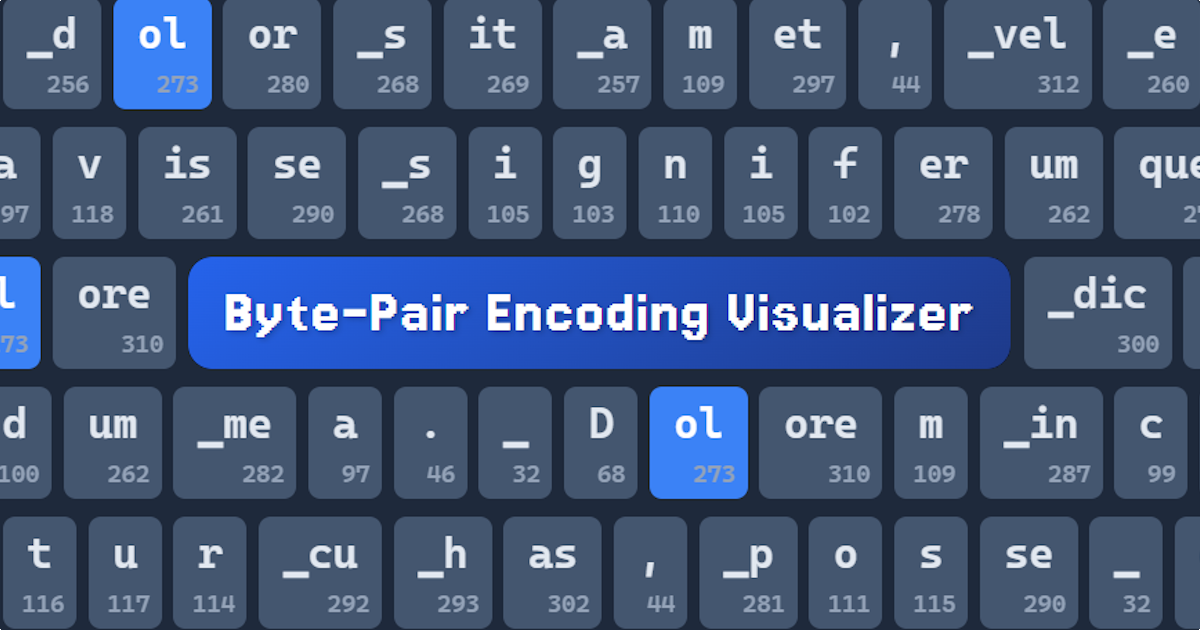
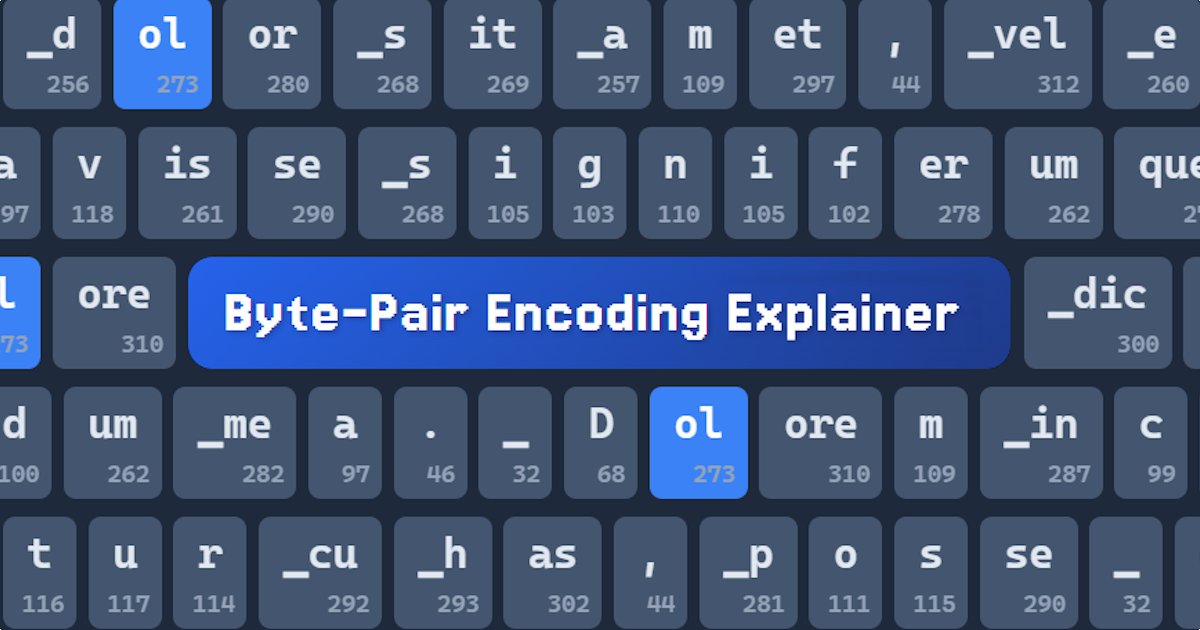
improved build config (removing hashes from assets), author title and metadata adjustments.

Changed region(s): [[0.5858, 0.4524, 0.8325, 0.5429]]

diff --git a/index.html b/index.html
@@ -6,21 +6,20 @@
     <meta name="viewport" content="width=device-width, initial-scale=1.0">
     
     <!-- Primary Meta Tags -->
-    <title>Byte-Pair Encoding Explainer - Interactive Algorithm Demo</title>
-    <meta name="title" content="Byte-Pair Encoding Explainer - Interactive Algorithm Demo">
-    <meta name="description" content="Step-by-step visualization of the Byte Pair Encoding (BPE) algorithm used for compressing data and building vocabularies for LLMs.">
-    
+    <title>Byte-Pair Encoding Explainer</title>
+    <meta name="title" content="Byte-Pair Encoding Explainer">
+    <meta name="description" content="An interactive explainer for learning about Byte-Pair Encoding (BPE). Explore the algorithm step by step with hands-on visualization, and read the accompanying article covering tokenization, vocabulary design, and how BPE powers modern LLM tokenizers.">
+
     <!-- Open Graph / Facebook -->
     <meta property="og:type" content="website">
-    <meta property="og:title" content="Byte-Pair Encoding Explainer - Interactive Algorithm Demo">
-    <meta property="og:description" content="Step-by-step visualization of the Byte Pair Encoding (BPE) algorithm used for compressing data and building vocabularies for LLMs.">
+    <meta property="og:title" content="Byte-Pair Encoding Explainer">
+    <meta property="og:description" content="An interactive explainer for learning about Byte-Pair Encoding (BPE). Explore the algorithm step by step with hands-on visualization, and read the accompanying article covering tokenization, vocabulary design, and how BPE powers modern LLM tokenizers.">
     <meta property="og:image" content="/bpe-visualizer.png">
-    
+
     <!-- Twitter -->
     <meta property="twitter:card" content="summary_large_image">
-    <meta property="twitter:title" content="Byte-Pair Encoding Explainer - Interactive Algorithm Demo">
-  <meta property="twitter:description" content="Step-by-step visualization of the Byte Pair Encoding (BPE) algorithm used for compressing data and building vocabularies for LLMs.">
-
+    <meta property="twitter:title" content="Byte-Pair Encoding Explainer">
+    <meta property="twitter:description" content="An interactive explainer for learning about Byte-Pair Encoding (BPE). Explore the algorithm step by step with hands-on visualization, and read the accompanying article covering tokenization, vocabulary design, and how BPE powers modern LLM tokenizers.">
     <meta property="twitter:image" content="/bpe-visualizer.png">
     
     <link rel="preconnect" href="https://fonts.googleapis.com">

diff --git a/vite.config.ts b/vite.config.ts
@@ -6,7 +6,7 @@ import vueDevTools from 'vite-plugin-vue-devtools'
 
 // https://vite.dev/config/
 export default defineConfig({
-  base: '/bpe-visualization/',
+  base: '/bpe-explainer/',
   plugins: [
     vue(),
     vueDevTools(),
@@ -14,6 +14,16 @@ export default defineConfig({
   resolve: {
     alias: {
       '@': fileURLToPath(new URL('./src', import.meta.url))
+    },
+  },
+  build: {
+    assetsInlineLimit: 0,
+    rollupOptions: {
+      output: {
+        assetFileNames: 'assets/[name][extname]',
+        chunkFileNames: 'assets/[name].js',
+        entryFileNames: 'assets/[name].js',
+      },
     },
   },
 })

diff --git a/src/components/BlogArticle.vue b/src/components/BlogArticle.vue
@@ -55,7 +55,7 @@ const bpeTrainingSteps: StepItem[] = [
           Encoding
         </h1>
         <p class="blog-article__authors">
-          Philip Müller<sup>1</sup>, Peter Steinbach<sup>1</sup>
+          Philip Müller<sup>1</sup>, TODO<sup>1</sup>
         </p>
         <p class="blog-article__affiliation">
           <sup>1</sup>Helmholtz-Zentrum Dresden-Rossendorf
